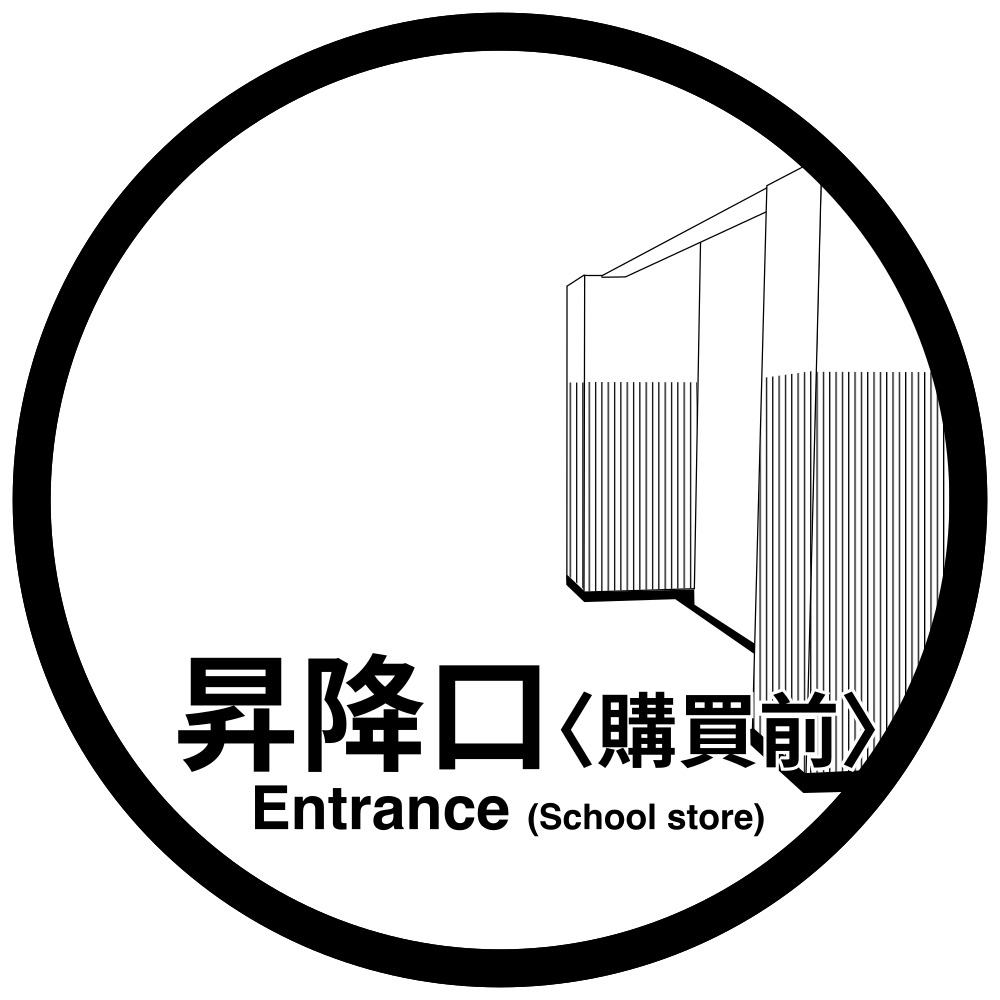
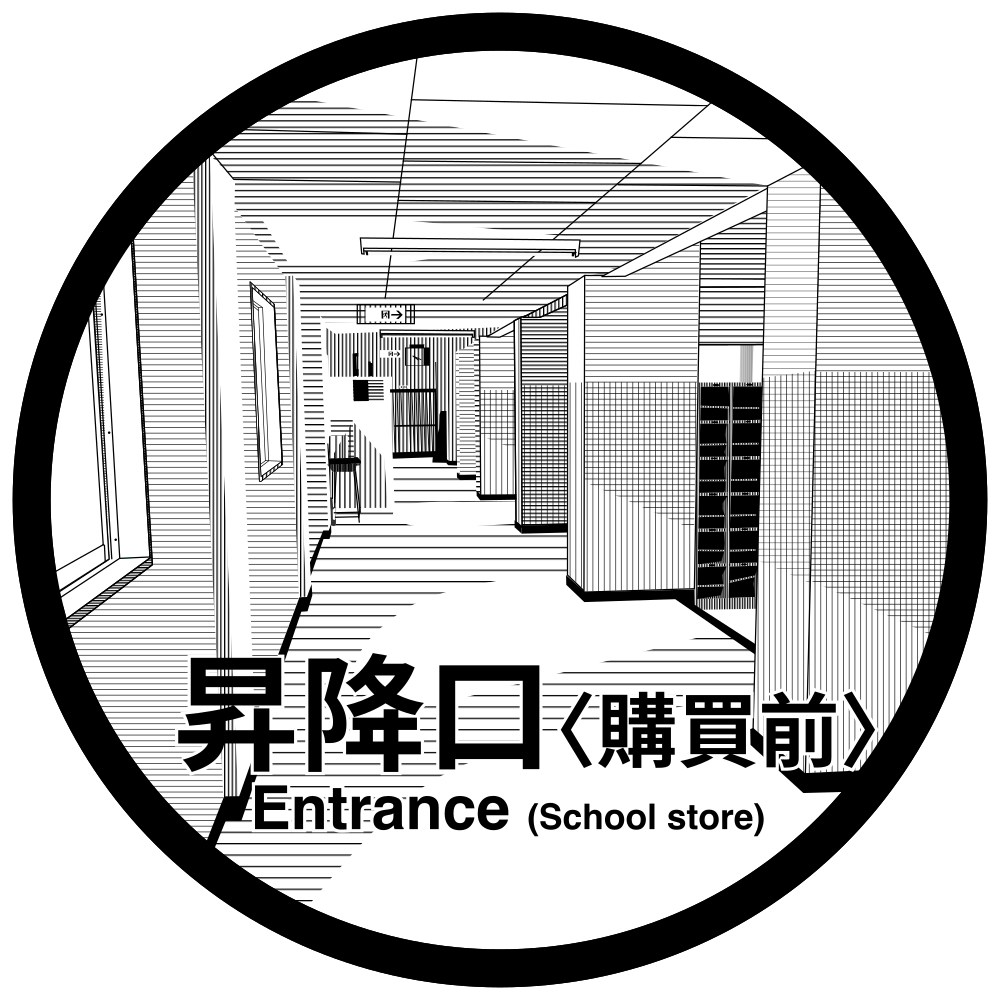
Add files via upload

Changed region(s): [[0.062, 0.093, 0.961, 0.899], [0.682, 0.093, 0.713, 0.124]]

diff --git a/index.html b/index.html
@@ -15,7 +15,7 @@
     <li><a href="./chemistry-c6x572s73u.html">化学室 [8/29 21:55]</a></li>
     <li><a href="./biology-avgv4uinzh.html">生物室 [8/29 21:55]</a></li>
     <li><a href="./4Fsp-9c9k8exslz.html">特別棟4F（未完）[9/3 15:44]</a></li>
-    <li><a href="./entrance-o3udwld9ko.html">昇降口〈購買前〉（未完）[8/29 21:55]</a></li>
+    <li><a href="./entrance-o3udwld9ko.html">昇降口〈購買前〉[9/5 0:21]</a></li>
     <li><a href="./seminar-28jggavkhn.html">セミナーハウス（未完）[8/29 21:55]</a></li>
     <li><a href="./gym-l4jws2b8jg.html">体育館（未完）[8/29 21:55]</a></li>
     <li><a href="./administration-8yn8frwuww.html">本部前 [8/31 21:55]</a></li>
